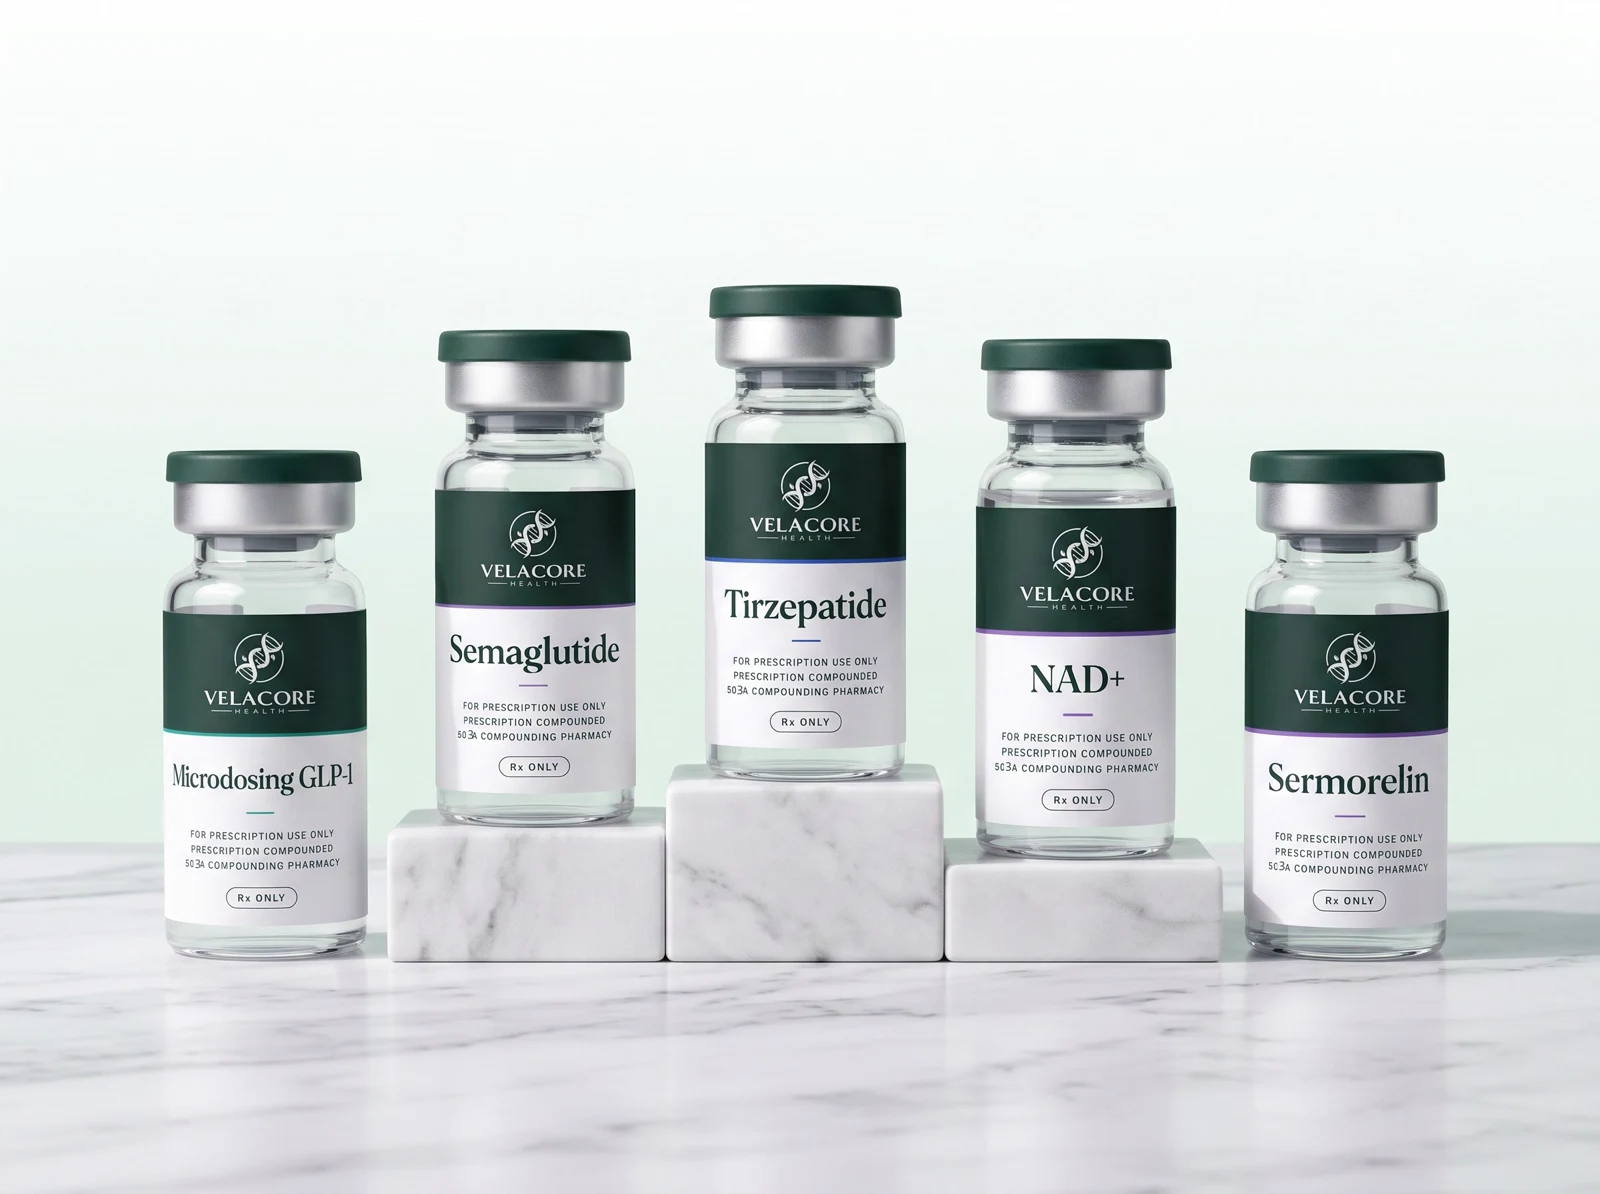
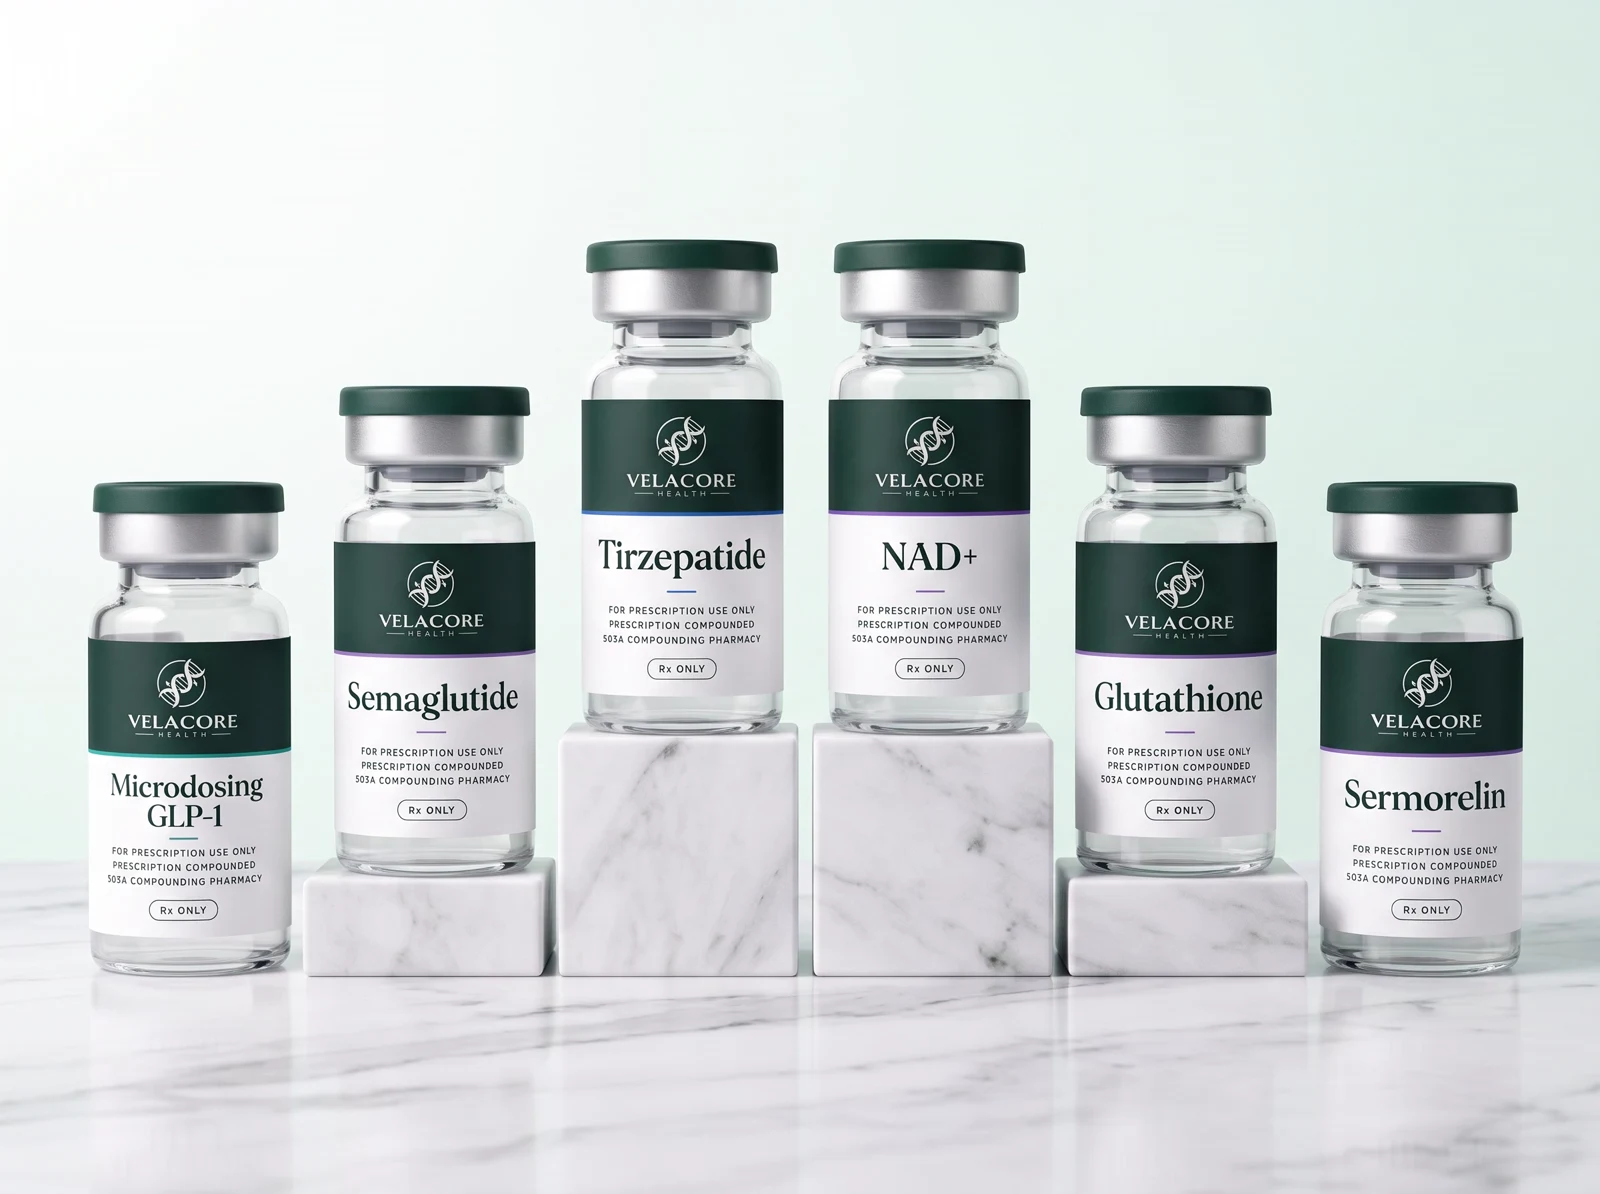
Home page images: six-vial hero, clinic photo for step 2, Hormone support tile; explainer video clips and closing scene
Local only, not pushed. vc-reviewer has not reviewed these images or the video.

diff --git a/tools/video/peptides/overlay.html b/tools/video/peptides/overlay.html
@@ -10,26 +10,35 @@
   /* subtitle mode: words only, a soft light halo keeps them readable on any frame */
   #sub{position:absolute;left:0;right:0;bottom:58px;text-align:center;font-weight:500;font-size:35px;letter-spacing:.005em;line-height:1.2;
        text-shadow:0 0 5px rgba(255,255,255,.98),0 0 12px rgba(255,255,255,.9),0 0 26px rgba(255,255,255,.75),0 1px 1px rgba(255,255,255,.9)}
+  /* the four step names under the four beads of the opening clip */
+  #steps{position:absolute;inset:0;display:none}
+  #steps span{position:absolute;top:452px;width:240px;margin-left:-120px;text-align:center;font-weight:600;font-size:25px;
+       text-shadow:0 0 5px rgba(255,255,255,.98),0 0 12px rgba(255,255,255,.9),0 0 26px rgba(255,255,255,.75)}
   /* closing scene */
   #end{position:absolute;inset:0;background:var(--mint);display:none}
   #logo{position:absolute;top:44px;left:50%;height:64px;transform:translateX(-50%)}
   #head{position:absolute;top:136px;left:0;right:0;text-align:center;font-family:'Fraunces',Georgia,serif;font-weight:500;font-size:46px;letter-spacing:-.01em;font-variation-settings:"opsz" 96,"SOFT" 30}
-  #row{position:absolute;top:224px;left:0;right:0;display:flex;justify-content:center;gap:22px}
+  #row{position:absolute;top:224px;left:0;right:0;display:none;justify-content:center;gap:22px}
+  /* the six-vial group photo from the home page, cropped to a wide band */
+  #group{position:absolute;top:198px;left:50%;width:640px;height:316px;margin-left:-320px;border-radius:20px;overflow:hidden;background:#fff}
+  #group img{width:640px;display:block;margin-top:-84px}
   .p{width:172px;text-align:center}
   .p img{width:172px;height:216px;object-fit:cover;border-radius:18px;display:block;background:#fff}
   .p span{display:block;margin-top:12px;font-weight:600;font-size:19px}
-  #btn{position:absolute;top:520px;left:50%;transform:translateX(-50%);background:var(--pine);color:#fff;font-weight:600;font-size:26px;padding:17px 44px;border-radius:999px;white-space:nowrap}
-  #url{position:absolute;top:596px;left:0;right:0;text-align:center;font-size:21px;font-weight:500;color:var(--soft)}
+  #btn{position:absolute;top:532px;left:50%;transform:translateX(-50%);background:var(--pine);color:#fff;font-weight:600;font-size:26px;padding:17px 44px;border-radius:999px;white-space:nowrap}
+  #url{position:absolute;top:606px;left:0;right:0;text-align:center;font-size:21px;font-weight:500;color:var(--soft)}
   #fine{position:absolute;bottom:26px;left:120px;right:120px;text-align:center;font-size:15px;line-height:1.45;color:var(--soft)}
   #cur{position:absolute;width:34px;height:34px;left:0;top:0}
 </style>
 </head>
 <body>
 <div id="sub"></div>
+<div id="steps"></div>
 <div id="end">
   <img id="logo" src="../../../public/logo-full.png" alt="">
   <div id="head">See which program may fit you</div>
   <div id="row"></div>
+  <div id="group"><img src="../../../public/images/lifestyle/hero-group.webp" alt=""></div>
   <div id="btn">Find your program</div>
   <div id="url">velacorehealth.com</div>
   <div id="fine">Prescription required. A licensed clinician decides whether a program is appropriate for you. Compounded medications are not FDA approved and are not reviewed by the FDA for safety or efficacy. Images are illustrative. Education only, not medical advice.</div>
@@ -46,7 +55,9 @@ for (const [slug, name] of PROGRAMS) {
 const q = new URLSearchParams(location.search);
 const ease = x => { x = Math.max(0, Math.min(1, x)); return 1 - Math.pow(1 - x, 3); };
 const fade = (el, t, a, d, rise) => { const k = ease((t - a) / d); el.style.opacity = k; if (rise) el.style.translate = `0 ${(1 - k) * rise}px`; };
-window.setSub = s => { document.getElementById("end").style.display = "none"; document.getElementById("sub").textContent = s; };
+window.setSteps = xs => { document.getElementById("sub").textContent = ""; const st = document.getElementById("steps"); st.style.display = "block";
+  st.innerHTML = ["Amino acids", "Peptide", "Protein", "Messenger"].map((n, i) => `<span style="left:${xs[i]}px">${n}</span>`).join(""); };
+window.setSub = s => { document.getElementById("steps").style.display = "none"; document.getElementById("end").style.display = "none"; document.getElementById("sub").textContent = s; };
 // closing scene, t in seconds from its first frame
 window.renderEnd = t => {
   document.getElementById("sub").textContent = "";
@@ -54,11 +65,12 @@ window.renderEnd = t => {
   fade(document.getElementById("logo"), t, 0.3, 0.7, 0);
   fade(document.getElementById("head"), t, 0.7, 0.8, 14);
   [...row.children].forEach((el, i) => fade(el, t, 1.2 + i * 0.13, 0.7, 18));
+  fade(document.getElementById("group"), t, 1.2, 0.9, 18);
   const btn = document.getElementById("btn");
   fade(btn, t, 2.5, 0.6, 0); fade(document.getElementById("url"), t, 2.9, 0.6, 0); fade(document.getElementById("fine"), t, 1.0, 0.8, 0);
   // the cursor glides in to the button, presses once, and rests
   const cur = document.getElementById("cur");
-  const k = ease((t - 3.3) / 1.3), x0 = 1010, y0 = 690, x1 = 742, y1 = 556;
+  const k = ease((t - 3.3) / 1.3), x0 = 1010, y0 = 690, x1 = 742, y1 = 568;
   cur.style.opacity = ease((t - 3.2) / 0.3);
   cur.style.translate = `${x0 + (x1 - x0) * k}px ${y0 + (y1 - y0) * k}px`;
   const press = t > 4.75 && t < 5.0 ? 1 - Math.abs((t - 4.875) / 0.125) : 0;

diff --git a/public/index.html b/public/index.html
@@ -90,7 +90,7 @@
         <!-- Hero photo: product-led. Five-vial group shot on marble risers, Nov 13 2026. -->
         <figure class="hero-photo is-photo is-wide">
           <div class="frame">
-            <img src="images/lifestyle/hero-group.webp" width="1600" height="1194" alt="Five Velacore Health vials standing on white marble risers: microdosing GLP-1, semaglutide, tirzepatide, NAD+ and sermorelin" fetchpriority="high" />
+            <img src="images/lifestyle/hero-group.webp" width="1600" height="1194" alt="Six Velacore Health vials standing on white marble risers: microdosing GLP-1, semaglutide, tirzepatide, NAD+, glutathione and sermorelin" fetchpriority="high" />
           </div>
           <figcaption class="img-note">Illustrative image. Your medication is prepared and labeled by a licensed 503A pharmacy and may look different.</figcaption>
         </figure>
@@ -114,7 +114,7 @@
             <div class="goal-body"><h3>Vitality</h3><p>Two programs: NAD+ and Glutathione, in the form your clinician prescribes.</p><span class="goal-go">See vitality programs</span></div>
           </a>
           <a class="goal-tile" href="programs/sermorelin.html" data-goal="hormone">
-            <div class="goal-media"><img src="images/products/sermorelin.webp" width="1194" height="1600" alt="Velacore Health sermorelin vial" loading="lazy" /></div>
+            <div class="goal-media"><img src="images/lifestyle/goal-hormone.webp" width="1600" height="1194" alt="Velacore Health sermorelin vial on a white marble riser" loading="lazy" /></div>
             <div class="goal-body"><h3>Hormone support</h3><p>One program: Sermorelin, a growth hormone-releasing hormone analog.</p><span class="goal-go">See the Sermorelin program</span></div>
           </a>
         </div>
@@ -282,7 +282,7 @@
             <a class="step-link" href="#goals" data-find>Find your program</a>
           </li>
           <li class="step">
-            <figure class="step-photo"><img src="images/lifestyle/step-clinician.webp" width="1600" height="1194" alt="A clinician in scrubs reviewing an intake at a laptop and taking notes" loading="lazy" /></figure>
+            <figure class="step-photo"><img src="images/lifestyle/step-clinician.webp" width="1600" height="1194" alt="A clinician in a white coat reviewing a patient chart at a desk in a clinic" loading="lazy" /></figure>
             <div class="step-num">2</div>
             <h3>Clinician review</h3>
             <p>A licensed physician or nurse practitioner in your state reviews your intake and decides whether to prescribe. A video visit is available on request and required for the first prescription in a few states.</p>

diff --git a/tools/video/peptides/build_cut.py b/tools/video/peptides/build_cut.py
@@ -22,7 +22,11 @@ MUSIC_SKIP = 6.0
 MUSIC = "music-bed-aura.mp3"             # soothing ambient pad, ElevenLabs music, Nov 16
 LEAD_IN, LEAD_IN_GAIN = "lead-in-swell.wav", 0.0   # lead-in sound switched off Nov 16: Dourado disliked the chime and the swell; the bed fading up is the lead-in
 LINE_LUFS = -19                          # every narration line is brought to the same loudness before the mix
+STEPS_IN = 5.0                            # the four step names come in once the four beads have settled
+GAP_AFTER_OPEN = 1.9                      # longer pause after line 1 so all four step names can be read
 SUBS = True                              # subtitles on the picture, words only, drawn by render_overlays.py
+# hand-set subtitle breaks where the automatic ones split a phrase badly; the words must match the line exactly
+SUB_OVERRIDE = {6: ["Whether a peptide is right for you", "is a licensed clinician's decision,", "and it's made after a review", "of your health history."]}
 SUB_MAX = 44                             # longest subtitle line, in characters
 MINT, PINE = "EEF5F1", "15302A"
 FONT = "C\\:/Windows/Fonts/segoeuisl.ttf"  # stand-in; the brand face Hanken Grotesk is not installed here
@@ -37,7 +41,7 @@ LINES = [
 ]
 PILLS = {1: "label-amino.png", 2: "label-peptide.png", 3: "label-protein.png", 4: "label-messenger.png"}
 # where each clip starts in its source, in seconds
-CLIP_IN = {0: 0.0, 1: 5.5, 2: 1.4, 3: 0.0, 4: 0.3}
+CLIP_IN = {0: 0.0, 1: 5.5, 2: 1.4, 3: 0.0, 4: 0.0}
 CLICK_AT, CLICK_GAIN = 4.82, 0.4          # seconds into the closing scene when the button is pressed; click level
 
 
@@ -65,8 +69,9 @@ beats, t = [], LEAD
 for i in range(6):
     d = speech_end(f"{VO}/beat{i + 1}.mp3")
     beats.append({"beat": i + 1, "start": round(t, 3), "end": round(t + d, 3), "speech": round(d, 3)})
-    t += d + GAP
+    t += d + (GAP_AFTER_OPEN if i == 0 else GAP)
 cuts = [0.0] + [round((beats[i]["end"] + beats[i + 1]["start"]) / 2, 3) for i in range(5)]
+cuts[1] = round(beats[1]["start"] - 0.25, 3)   # hold the opening picture until just before line 2, so the step names can be read
 card_at = round(beats[5]["end"] + CARD_LAG, 3)
 end = round(card_at + CARD_HOLD, 3)
 cuts += [card_at, end]                    # 8 marks, 7 picture segments
@@ -100,11 +105,9 @@ for k in range(5):
         else:
             filt.append(f"[{n}:v]trim=start={CLIP_IN[k]}:duration={seg_len[k]},setpts=PTS-STARTPTS,{norm}[s{k}]")
     labels.append(f"s{k}")
-# beat 6: the clinician photo from the site with a slow push in, so the picture shows what the line says
-n = add("-loop", "1", "-framerate", str(FPS), "-t", str(seg_len[5]), "-i", str(ROOT / "public" / "images" / "lifestyle" / "step-clinician.webp"))
-nf = int(seg_len[5] * FPS) + 2
-filt.append(f"[{n}:v]scale=3200:-2,crop=3200:1800:0:300,zoompan=z='1+0.07*on/{nf}':x='iw/2-(iw/zoom/2)':y='ih/2-(ih/zoom/2)':"
-            f"d=1:s={W}x{H}:fps={FPS},trim=duration={seg_len[5]},setpts=PTS-STARTPTS,setsar=1,format=yuv420p[s5]")
+# beat 6: the clinician at her desk reviewing a chart, clips/clip6.mp4, animated in Veo from the step-clinician office photo
+n = add("-i", "clips/clip6.mp4")
+filt.append(f"[{n}:v]trim=start=0.3:duration={seg_len[5]},setpts=PTS-STARTPTS,{norm}[s5]")
 labels.append("s5")
 # closing scene: the six programs, the button and a click, drawn by render_overlays.py
 n = add("-i", "end-scene.mp4")
@@ -143,7 +146,7 @@ def phrases(line):
 
 subs = []
 for b, line in zip(beats, LINES):
-    ph = phrases(line)
+    ph = SUB_OVERRIDE.get(b["beat"]) or phrases(line)
     total = sum(len(x) for x in ph)
     t0 = b["start"]
     for x in ph:
@@ -157,6 +160,12 @@ draw = [sys.executable, "-I", str(ROOT / "tools" / "video" / "peptides" / "rende
 if "end" in sys.argv[2:] or not (WORK / "end-scene.mp4").exists():
     draw.append("end")
 subprocess.run(draw, check=True, cwd=ROOT)
+# the four step names appear under the four beads as she says "four steps"
+n = add("-loop", "1", "-framerate", str(FPS), "-t", str(end), "-i", "subs/steps.png")
+sa, sz = STEPS_IN, cuts[1] - XF / 2 - 0.3
+filt.append(f"[{n}:v]format=rgba,fade=t=in:st={sa:.3f}:d=0.4:alpha=1,fade=t=out:st={sz:.3f}:d=0.3:alpha=1[stp]")
+filt.append(f"[{prev}][stp]overlay=0:0:enable='between(t,{sa:.3f},{sz + 0.3:.3f})'[stepped]")
+prev = "stepped"
 if SUBS:
     for i, (a, z, x) in enumerate(subs):
         last = i == len(subs) - 1 or subs[i + 1][0] - z > 0.3

diff --git a/tools/video/peptides/render_overlays.py b/tools/video/peptides/render_overlays.py
@@ -12,6 +12,7 @@ ROOT = Path(__file__).resolve().parents[3]
 HERE = Path(__file__).parent
 WORK = ROOT / "03-edits" / "peptides-video"
 FPS, END_LEN = 30, 7.0
+STEP_X = [313, 528, 742, 962]   # centers of the four beads in clips/clip1.mp4 at about six seconds
 
 subs = json.loads((WORK / "subs" / "list.json").read_text(encoding="utf-8"))
 with sync_playwright() as p:
@@ -22,6 +23,10 @@ with sync_playwright() as p:
     for i, s in enumerate(subs):
         pg.evaluate("s => setSub(s)", s["text"])
         pg.screenshot(path=str(WORK / "subs" / f"s{i:02d}.png"), omit_background=True)
+    # the four step names, placed under the four beads at the end of the opening clip
+    pg.evaluate("xs => setSteps(xs)", STEP_X)
+    pg.screenshot(path=str(WORK / "subs" / "steps.png"), omit_background=True)
+    pg.evaluate("s => setSub(s)", "")
     print("subtitles drawn:", len(subs))
     if "end" in sys.argv[1:]:
         enc = subprocess.Popen(["ffmpeg", "-v", "error", "-y", "-f", "image2pipe", "-framerate", str(FPS), "-i", "-",

diff --git a/docs/gemini-queue.md b/docs/gemini-queue.md
@@ -4,6 +4,20 @@ The running list of what still has to be made or changed, in the order we will d
 
 Gemini video and image credits reset at 9:21 PM on Nov 16. Video gave two clips per window last time, so the two clips go first.
 
+## Where it stands at the end of Nov 16
+
+Every Gemini item below was made and passed Vale's check on Nov 16. The prompts stay here as the record of what worked.
+
+- Item 1, opening clip: done, first run. In the video as `clips/clip1.mp4`.
+- Item 2, clip 5: done, first run.
+- Item 3, clinician photo: done. On the local site in step 2, mirrored at Dourado's request so she faces the patient photo. Two points for vc-reviewer: her face shows in profile, and blurred medicine bottles sit in the cabinet behind her.
+- Item 4, clinician in motion: done, first run. In the video as `clips/clip6.mp4`.
+- Item 4b, six-vial group shot: done on the third image. The edit prompt below failed, it kept five vials and misspelled the small print. What worked was a fresh image from six separate vial photos; that prompt is in the Nov 16 chat and should be copied into `docs/gemini-prompts.md`. Gemini then fixed one misspelled HEALTH and Vale patched the other by copying the word from the Tirzepatide vial. Tell vc-reviewer about the patch. On the local home page hero and in the video closing scene.
+- Item 5, wide Sermorelin: done, cropped tighter by Vale so the vial matches the other tiles. On the local home page as the Hormone support tile.
+- Item 6, NAD+ vial on marble: done. Filed as `assets-in/products/nad-marble.jpg`, not on the site yet.
+
+Nothing from this session is live. Nothing is pushed. vc-reviewer has seen none of it.
+
 ## Gemini, in this order
 
 ### 1. Opening clip, replaces clip 1
@@ -103,6 +117,7 @@ Show exactly one vial. No other objects, no plants, no second vial, no bottle, n
 - Add a Find your program button under the video player on the Learn page.
 - Send the finished video and every new image through vc-reviewer. The reviewer has not yet seen the new closing line, "and it's made after a review of your health history", or the closing scene.
 - Update `docs/gemini-prompts.md` with the prompts that passed.
+- Logo, asked by Dourado Nov 16: he wants it crisp and in the site's colors, because the purple and violet gradient clashes with the pine, jade and mint. The designer's vector already exists at `brand/logo/VelaCore Health_01/VelaCore Health-01.svg`; the site is using a small PNG of it. Plan: keep the designer's shape, since it is printed on every vial label in every product photo, and prepare two or three color treatments in pine and jade as SVG for Dourado to choose from. Then update `docs/BRAND.md`, which today says the mark is never recolored, and swap the site files. A full redraw of the mark would mean remaking every product photo, so that is only on his explicit word.
 
 ## Waiting on a decision or on OpenLoop
 

diff --git a/docs/HANDOFF.md b/docs/HANDOFF.md
@@ -73,6 +73,17 @@ Bryan is non-technical: explain steps plainly and don't assume knowledge.
   - Oral Semaglutide and oral Microdosing photos wait on OpenLoop naming the form.
   - The OpenLoop question email is drafted in `docs/openloop-email-draft.md`. Dourado has not said
     it was sent.
+  - Later the same night, after Gemini reset: the whole queue was made. The video now has a new
+    opening clip with the four step names, clip 5, and a clinician clip under the closing line, and
+    its closing scene shows the six-vial group shot. On the local site only, three home page images
+    changed: the hero is the new six-vial group shot, step 2 is the new clinic photo mirrored to face
+    step 1, and the Hormone support tile has its own Sermorelin marble photo. Compliance check 0 fail,
+    site audit only the six Start placeholders. None of it is pushed and vc-reviewer has not seen it;
+    that review is the next gate. Details and the two flags on the clinician photo are at the top of
+    `docs/gemini-queue.md`.
+  - Dourado asked for the logo to be crisp and in the site colors, no purple. The site header already
+    uses the jade mark; the purple gradient file `public/logo-full.png` is what the video closing scene
+    uses. Plan is in `docs/gemini-queue.md`: recolor the designer's vector, do not redraw the mark.
 - **Nov 16: second OpenLoop proposal read, nothing on the site changed yet.** File is
   "Velacore Health - OpenLoop - Proposal - 11_12_26 (1).pdf", 30 pages, in the Velacore Workspace
   Drive, dated Nov 12 with a 30 day expiration. It stays out of the repo, and so does the column
